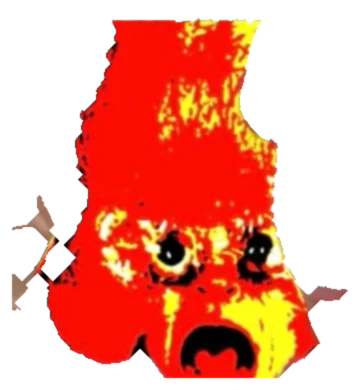
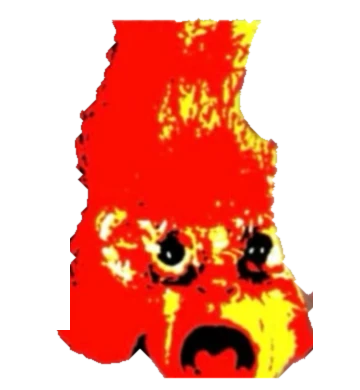
Sticker scene with original ZEISS x mascot badge, thin catch copy

diff --git a/style.css b/style.css
@@ -100,10 +100,14 @@ button { font: inherit; color: inherit; }
 .hero-h1 .w { display: inline-block; margin-right: .18em; will-change: transform; }
 .hero-h1 em { color: var(--red); font-style: inherit; }
 .hero-foot { display: flex; flex-wrap: wrap; align-items: flex-end; justify-content: space-between; gap: 20px; margin-top: clamp(18px, 3vh, 32px); }
-.hero-jp { margin: 0; font-size: clamp(24px, 3vw, 48px); line-height: 1.18; }
-.hero-jp .dash { font-style: normal; letter-spacing: -.12em; margin-right: .18em; color: var(--red); }
-.hero-jp .indent { margin-left: 1.95em; }
-.hero-jp em { font-family: var(--display); font-weight: 900; font-style: italic; color: var(--red); letter-spacing: -.06em; margin-left: .06em; }
+/* catch copy: thin, airy, quiet — lets the headline do the shouting */
+.hero-catch {
+  margin: 0; font-family: var(--jp); font-feature-settings: "palt";
+  font-size: clamp(17px, 1.9vw, 28px); line-height: 1.85; letter-spacing: .16em; color: #f2f1ec;
+  font-weight: 300; text-shadow: 0 1px 14px rgba(0,0,0,.85), 0 0 2px rgba(0,0,0,.6);
+}
+.hero-catch .dash { letter-spacing: -.08em; margin-right: .3em; }
+.hero-catch .indent { padding-left: 2.15em; }
 .scroll-hint { margin: 0; font-size: 11px; display: flex; align-items: center; gap: 12px; color: var(--mute); }
 .scroll-hint i { width: 1px; height: 36px; background: linear-gradient(var(--paper), transparent); display: inline-block; }
 
@@ -134,33 +138,17 @@ button { font: inherit; color: inherit; }
 /* 02 call — a pressed disc, crossed by tape */
 .call { height: 300vh; background: var(--ink); }
 .call .pin { display: grid; place-items: center; }
-.disc-wrap { position: relative; width: min(74vh, 86vw); aspect-ratio: 1; will-change: transform; }
-.disc {
-  position: absolute; inset: 0; border-radius: 50%; overflow: hidden;
-  box-shadow: 0 0 0 1px rgba(255,255,255,.08), 0 50px 90px -30px rgba(0,0,0,.9);
-  -webkit-mask: radial-gradient(circle, transparent 6.2%, #000 6.4%); mask: radial-gradient(circle, transparent 6.2%, #000 6.4%);
-  will-change: transform;
+.stickers { position: relative; width: min(70vh, 84vw); aspect-ratio: 1; }
+.stk { position: absolute; will-change: transform; }
+.stk-mascot {
+  left: 6%; top: 4%; width: 62%; height: auto;
+  filter: drop-shadow(5px 0 0 #fff) drop-shadow(-5px 0 0 #fff) drop-shadow(0 5px 0 #fff) drop-shadow(0 -5px 0 #fff) drop-shadow(0 26px 30px rgba(0,0,0,.55));
 }
-.disc-art { position: absolute; inset: 0; background: url("assets/collage.webp") center 45% / cover; filter: contrast(1.08) saturate(1.05); }
-.disc-sheen {
-  position: absolute; inset: 0; mix-blend-mode: screen; opacity: .55;
-  background:
-    radial-gradient(circle, transparent 47%, rgba(0,0,0,.55) 49.2%, transparent 49.6%),
-    conic-gradient(from var(--sheen, 0deg), transparent 0 8%, rgba(120,255,240,.35) 12%, rgba(255,120,220,.35) 16%, transparent 22% 54%, rgba(255,240,140,.3) 60%, rgba(140,160,255,.35) 64%, transparent 70%);
+.stk-zeiss {
+  right: 2%; bottom: 6%; width: 46%; height: auto;
+  border: 7px solid #fff; border-radius: 6px;
+  box-shadow: 0 24px 40px -12px rgba(0,0,0,.6);
 }
-.disc-sheen::after { content: ""; position: absolute; inset: 0; border-radius: 50%; background: repeating-radial-gradient(circle, rgba(255,255,255,.035) 0 1px, transparent 1px 3px); }
-.disc-hub {
-  position: absolute; left: 50%; top: 50%; width: 30%; aspect-ratio: 1; transform: translate(-50%, -50%);
-  border-radius: 50%;
-  background: radial-gradient(circle, transparent 21%, rgba(242,241,236,.92) 21.8% 45%, rgba(210,208,200,.95) 46% 48%, rgba(242,241,236,.85) 49% 70%, rgba(255,255,255,.35) 71% 100%);
-}
-.disc-hub i { position: absolute; inset: 31%; border-radius: 50%; box-shadow: inset 0 0 0 1px rgba(0,0,0,.18); }
-.disc-sticker {
-  position: absolute; left: -6%; top: -4%; width: 40%; height: auto; z-index: 2;
-  filter: drop-shadow(0 0 0 #fff) drop-shadow(3px 0 0 #fff) drop-shadow(-3px 0 0 #fff) drop-shadow(0 3px 0 #fff) drop-shadow(0 -3px 0 #fff) drop-shadow(0 14px 22px rgba(0,0,0,.5));
-  will-change: transform;
-}
-.disc-badge { position: absolute; right: 8%; bottom: 22%; z-index: 2; font-size: clamp(44px, 7vh, 80px); transform: rotate(-6deg); }
 .tape {
   position: absolute; left: -10vw; right: -10vw; z-index: 3;
   padding: .12em 0; overflow: hidden;

diff --git a/index.html b/index.html
@@ -13,7 +13,7 @@
   <link rel="icon" href="assets/favicon.png">
   <link rel="preconnect" href="https://fonts.googleapis.com">
   <link rel="preconnect" href="https://fonts.gstatic.com" crossorigin>
-  <link href="https://fonts.googleapis.com/css2?family=Archivo:ital,wght@0,800;0,900;1,900&family=Outfit:wght@200;300&family=JetBrains+Mono:wght@400;600&family=Murecho:wght@500;700;900&display=swap" rel="stylesheet">
+  <link href="https://fonts.googleapis.com/css2?family=Archivo:ital,wght@0,800;0,900;1,900&family=Outfit:wght@200;300&family=JetBrains+Mono:wght@400;600&family=Murecho:wght@300;500;700;900&display=swap" rel="stylesheet">
   <link rel="stylesheet" href="assets/logo.css">
   <link rel="stylesheet" href="style.css">
 </head>
@@ -49,7 +49,7 @@
           <span class="line"><span class="w">IS</span><span class="w">BACK<em>.</em></span></span>
         </h1>
         <div class="hero-foot">
-          <p class="hero-jp"><span class="jp"><i class="dash">――</i>古き隣人よ戻れ</span><br><span class="jp indent">新たな漢集え</span></p>
+          <p class="hero-catch"><span class="dash">――</span>古き隣人よ戻れ<br><span class="indent">新たな漢集え</span></p>
           <p class="scroll-hint mono">SCROLL<i></i></p>
         </div>
       </div>
@@ -62,7 +62,7 @@
       <div class="watermark" aria-hidden="true">
         <span class="lockup">
           <span class="lk-thin">neighbor</span><span class="lk-x">X</span>
-          <span class="lk-keep"><span class="lk-bold">RINJIN CLAB</span><span class="lk-badge"><b>隣</b></span></span>
+          <span class="lk-keep"><span class="lk-bold">RINJIN CLAB</span><img class="lk-zeiss" src="assets/zeiss-mascot.webp" alt="" width="816" height="760"></span>
         </span>
         <span class="exif mono">
           <span><b data-exif="mm">0</b>mm&nbsp; f/<b data-exif="f">1.00</b>&nbsp; 1/<b data-exif="ss">8000</b>s&nbsp; ISO<b data-exif="iso">100</b></span>
@@ -78,14 +78,9 @@
   <section class="scene call" data-scene="call">
     <div class="pin">
       <p class="scene-label mono">02 — THE CALL</p>
-      <div class="disc-wrap" aria-hidden="true">
-        <div class="disc">
-          <div class="disc-art"></div>
-          <div class="disc-sheen"></div>
-          <div class="disc-hub"><i></i></div>
-        </div>
-        <img class="disc-sticker" src="assets/mascot-cut.webp" alt="" width="360" height="390">
-        <span class="disc-badge lk-badge"><b>隣</b></span>
+      <div class="stickers" aria-hidden="true">
+        <img class="stk stk-mascot" src="assets/mascot-cut.webp" alt="" width="360" height="390">
+        <img class="stk stk-zeiss" src="assets/zeiss-mascot.webp" alt="" width="816" height="760">
       </div>
       <div class="tape tape-a" aria-label="古き隣人よ戻れ">
         <div class="tape-track">

diff --git a/site.js b/site.js
@@ -222,18 +222,19 @@ const scenes = {
   },
 
   call(p, el) {
-    const enter = outExpo(ramp(p, 0.0, 0.25));
-    const wrap = $(".disc-wrap", el);
-    wrap.style.transform = `translate3d(0, ${(1 - enter) * 30}vh, 0) scale(${lerp(0.7, 1, enter)})`;
-    const disc = $(".disc", el);
-    disc.style.transform = `rotate(${p * 720}deg)`;
-    disc.querySelector(".disc-sheen").style.setProperty("--sheen", `${-p * 720 + p * 200}deg`);
-    const st = outBack(ramp(p, 0.18, 0.34));
-    $(".disc-sticker", el).style.transform = `scale(${st}) rotate(${lerp(-40, -8, st)}deg)`;
+    // stickers slap down one after another, then drift with the scroll
+    const slap = (q, a, rot0, rot1) => { const k = outBack(ramp(p, a, a + 0.12)); return `scale(${lerp(2.4, 1, k)}) rotate(${lerp(rot0, rot1, k)}deg)`; };
+    const drift = (p - 0.5) * 40;
+    const m = $(".stk-mascot", el), z = $(".stk-zeiss", el);
+    [[m, 0.04, -30, -6], [z, 0.16, 25, 7]].forEach(([node, a, r0, r1], i) => {
+      const on = ramp(p, a, a + 0.04);
+      node.style.opacity = on;
+      node.style.transform = `translate3d(0, ${drift * (i + 1) * -0.4}px, 0) ${slap(node, a, r0, r1)}`;
+    });
     const tA = $(".tape-a .tape-track", el), tB = $(".tape-b .tape-track", el);
     tA.style.transform = `translate3d(${lerp(0, -40, p)}%, 0, 0)`;
     tB.style.transform = `translate3d(${lerp(-40, 0, p)}%, 0, 0)`;
-    const ta = outExpo(ramp(p, 0.08, 0.3)), tb = outExpo(ramp(p, 0.2, 0.42));
+    const ta = outExpo(ramp(p, 0.3, 0.5)), tb = outExpo(ramp(p, 0.4, 0.6));
     $(".tape-a", el).style.clipPath = `inset(0 ${(1 - ta) * 100}% 0 0)`;
     $(".tape-b", el).style.clipPath = `inset(0 0 0 ${(1 - tb) * 100}%)`;
   },

diff --git a/discord/render.html b/discord/render.html
@@ -47,7 +47,7 @@
 <div id="root"></div>
 <script>
 const t = new URLSearchParams(location.search).get("t") || "icon";
-const lockup = `<span class="lockup"><span><span class="lk-thin">neighbor</span><span class="lk-x">X</span></span><span class="lk-keep"><span class="lk-bold">RINJIN CLAB</span><span class="lk-badge"><b>隣</b></span></span></span>`;
+const lockup = `<span class="lockup"><span><span class="lk-thin">neighbor</span><span class="lk-x">X</span></span><span class="lk-keep"><span class="lk-bold">RINJIN CLAB</span><img class="lk-zeiss" src="../assets/zeiss-mascot.webp"></span></span>`;
 const bar = `<div class="bar"><span>古き隣人よ戻れ</span><b>✳</b><span>新たな漢集え</span><b>✳</b><span>有言実行</span><b>✳</b><span>古き隣人よ戻れ</span></div>`;
 const wide = (cls) => `<div class="art wide ${cls}"><div class="dots" style="opacity:.35"></div>
   <div class="copy"><div class="eyebrow mono">あの伝説のサーバー</div>${lockup}<div class="sub"><i>隣人部 復活</i><span>!!</span></div></div>

diff --git a/assets/logo.css b/assets/logo.css
@@ -69,3 +69,4 @@
   text-shadow: .03em .03em 0 #fff;
 }
 .lk-keep { display: inline-flex; align-items: center; gap: .18em; white-space: nowrap; }
+.lk-zeiss { width: 1.12em; height: 1.12em; margin-left: .12em; object-fit: cover; border-radius: .05em; transform: translateY(-.04em); }
